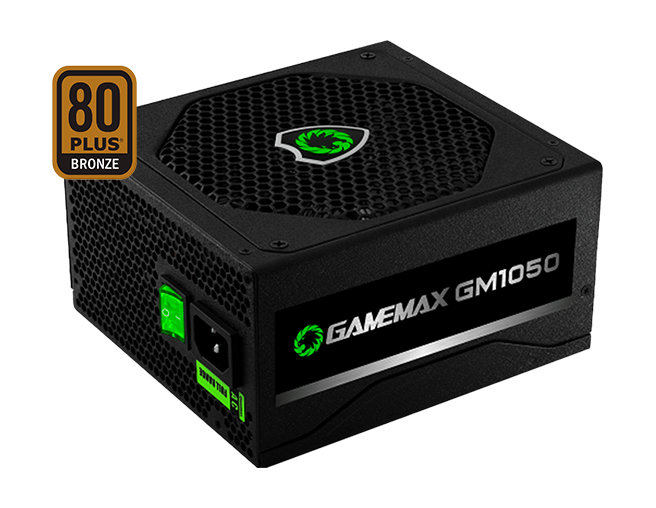
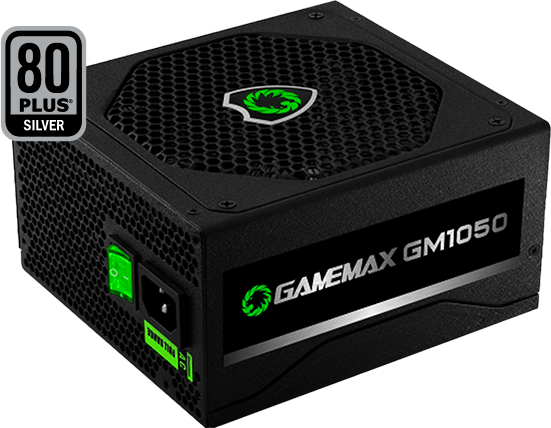
change photos

diff --git a/src/GM1050/index.html b/src/GM1050/index.html
@@ -47,7 +47,7 @@
           <h3>COM QUALIDADE<br />E PROTEÇÃO</h3>
 
           <p>
-            Certificada com o Selo 80 PLUS BRONZE, garantimos uma ótima eficiência no fornecimento energético.<br /><br />
+            Certificada com o Selo 80 PLUS SILVER, garantimos uma ótima eficiência no fornecimento energético.<br /><br />
 
             E para melhorar ainda mais, acompanha diversas proteções que reduzem os riscos de danos ao PC, auxiliando no
             combate de variações e problemas da rede elétrica.
